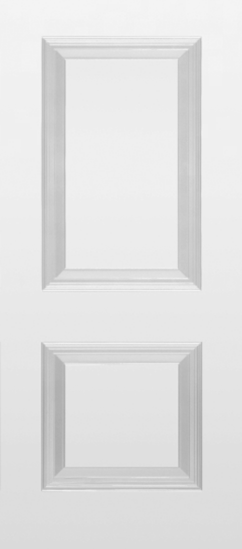
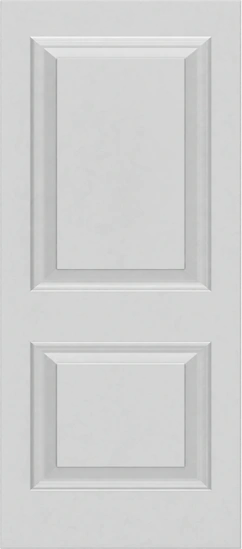
Fix Brushed Smooth Fiberglass to use smooth finish

diff --git a/src/data/doorPreviewAssets.ts b/src/data/doorPreviewAssets.ts
@@ -5,10 +5,7 @@ import { doorStyleThumbnailAssets } from './doorStyleThumbnailAssets.js'
 const slabUrl = (folder: string, fileName: string) => `/assets/hgi-assets/Preview Slabs/${folder}/${fileName}`
 
 const smoothPaintDoorPreviewAssets: Record<string, string> = {
-  // The supplied smooth 2PHD file is an opaque-black export rather than usable
-  // neutral slab artwork. Use the matching neutral 2PHD source so the default
-  // first style renders correctly for single, French, and Savannah assemblies.
-  '2PHD': slabUrl('Textured', '2P HD Flat Top - Textured.webp'),
+  '2PHD': slabUrl('Smooth', '2P HD Flat Top - Smooth.webp'),
   '3LT': slabUrl('Smooth', 'Stacked 3 Lite - Smooth.webp'),
   '3PNG': slabUrl('Smooth', '3 Panel No Glass - Smooth.webp'),
   '3PNGSS': slabUrl('Smooth', '3 Panel No Glass - Smooth.webp'),
@@ -49,13 +46,8 @@ const smoothPaintDoorPreviewAssets: Record<string, string> = {
   SW: slabUrl('Smooth', 'Wagon Wheel - Smooth.webp'),
 }
 
-// F3 uses the supplied textured square slab for both of these product lines.
-// Keep this line-specific so the other smooth preview mappings stay unchanged.
 const exactDoorLinePreviewAssets: Record<string, Record<string, string>> = {
   '22-gauge-steel': {
-    F3: slabUrl('Textured', 'F3 - Textured.webp'),
-  },
-  'brushed-smooth-fiberglass': {
     F3: slabUrl('Textured', 'F3 - Textured.webp'),
   },
 }
@@ -184,6 +176,15 @@ export function resolveDoorPreviewCandidates(style: DoorStyle, finishType?: Fini
   const candidates: (string | undefined)[] = []
   const hasExactDoorLine = product?.doorTypes.length === 1
   const exactLineId = hasExactDoorLine ? product?.matchingVariants[0]?.lineId : undefined
+
+  // Brushed Smooth Fiberglass is a paint-only smooth surface. Keep its asset
+  // resolution isolated from the generic fallback chain so a missing smooth
+  // asset can never silently substitute textured, Oak, or other grained art.
+  if (exactLineId === 'brushed-smooth-fiberglass') {
+    const smoothCandidate = previewFromMap(style, smoothPaintDoorPreviewAssets)
+    return smoothCandidate ? [smoothCandidate] : []
+  }
+
   const exactLineAssets = exactLineId ? exactDoorLinePreviewAssets[exactLineId] : undefined
   if (exactLineAssets) candidates.push(previewFromMap(style, exactLineAssets))
   const useStainableSteelTexture = hasExactDoorLine && usesPaintableStainableSteelPreview(product)

diff --git a/scripts/verifyConfigurationIntegrity.ts b/scripts/verifyConfigurationIntegrity.ts
@@ -92,6 +92,14 @@ for (const style of doorStyles) {
         const codes = product.styleCodes
         const slabs = resolveDoorPreviewCandidates(style, finish.finishType, product, grain)
         assert.ok(slabs.length, `${line.id}/${style.code}/${finish.id} has no slab candidate`)
+        if (line.id === 'brushed-smooth-fiberglass') {
+          assert.equal(grain, null, `${line.id}/${style.code} must not resolve a grain`)
+          assert.equal(finish.finishType, 'paint', `${line.id}/${style.code} must remain paint-only`)
+          assert.ok(
+            slabs.every(slab => slab.includes('/Preview Slabs/Smooth/')),
+            `${line.id}/${style.code} resolved a non-smooth slab: ${slabs.join(', ')}`,
+          )
+        }
         for (const slab of slabs) await checkAsset(slab, `slab ${line.id}/${style.code}/${finish.id}`)
         await checkAsset(resolveGlassMaskAsset(codes.find(code => resolveGlassMaskAsset(code)) ?? ''), `mask ${style.code}`)
         const glassChoices = doorStyleSupportsGlass(style, line.id) ? availableGlass(codes) : []
@@ -99,6 +107,9 @@ for (const style of doorStyles) {
         for (const glass of glassChoices) for (const code of codes) await checkAsset(glass.overlaysByDoorStyle[code], `glass ${glass.id}/${code}`)
 
         const family = sideliteAssetFamilyForSlab({ doorLineId: line.id, grain, doorStyleCode: style.code })
+        if (line.id === 'brushed-smooth-fiberglass') {
+          assert.equal(family, '20-gauge', `${line.id}/${style.code} must use the smooth sidelite family`)
+        }
         let sideliteSelectionCount = 1n
         if (family) {
           let perPlacement = 0n

diff --git a/src/data/sideliteAssets.ts b/src/data/sideliteAssets.ts
@@ -52,7 +52,7 @@ const SIDELITE_GLASS_MASKS: Record<SideliteStyleId, string> = {
  * main slab. Keep this centralized with the slab-asset exceptions so the
  * builder, captures, and exports cannot independently choose a texture.
  */
-export function sideliteAssetFamilyForSlab({ doorLineId, grain, doorStyleCode }: SideliteFamilySelection): SideliteAssetFamily | null {
+export function sideliteAssetFamilyForSlab({ doorLineId, grain }: SideliteFamilySelection): SideliteAssetFamily | null {
   // The current builder-facing Door Line uses `signature-series`; retain the
   // older `signature-fiberglass` identifier for saved configurations that
   // still resolve through this shared asset helper.
@@ -61,9 +61,6 @@ export function sideliteAssetFamilyForSlab({ doorLineId, grain, doorStyleCode }:
     if (normalizedGrain === 'cherry' || normalizedGrain === 'fir' || normalizedGrain === 'mahogany' || normalizedGrain === 'oak') return normalizedGrain
     return null
   }
-  // F3 uses the supplied textured slab for both 22-Gauge and Brushed Smooth.
-  // Its sidelite must therefore use the textured authored family as well.
-  if (doorStyleCode === 'F3' && doorLineId === 'brushed-smooth-fiberglass') return '22-gauge'
   if (doorLineId === '20-gauge-smooth-steel' || doorLineId === 'brushed-smooth-fiberglass') return '20-gauge'
   if (doorLineId === '22-gauge-steel' || doorLineId === 'textured-fiberglass') return '22-gauge'
   return null
